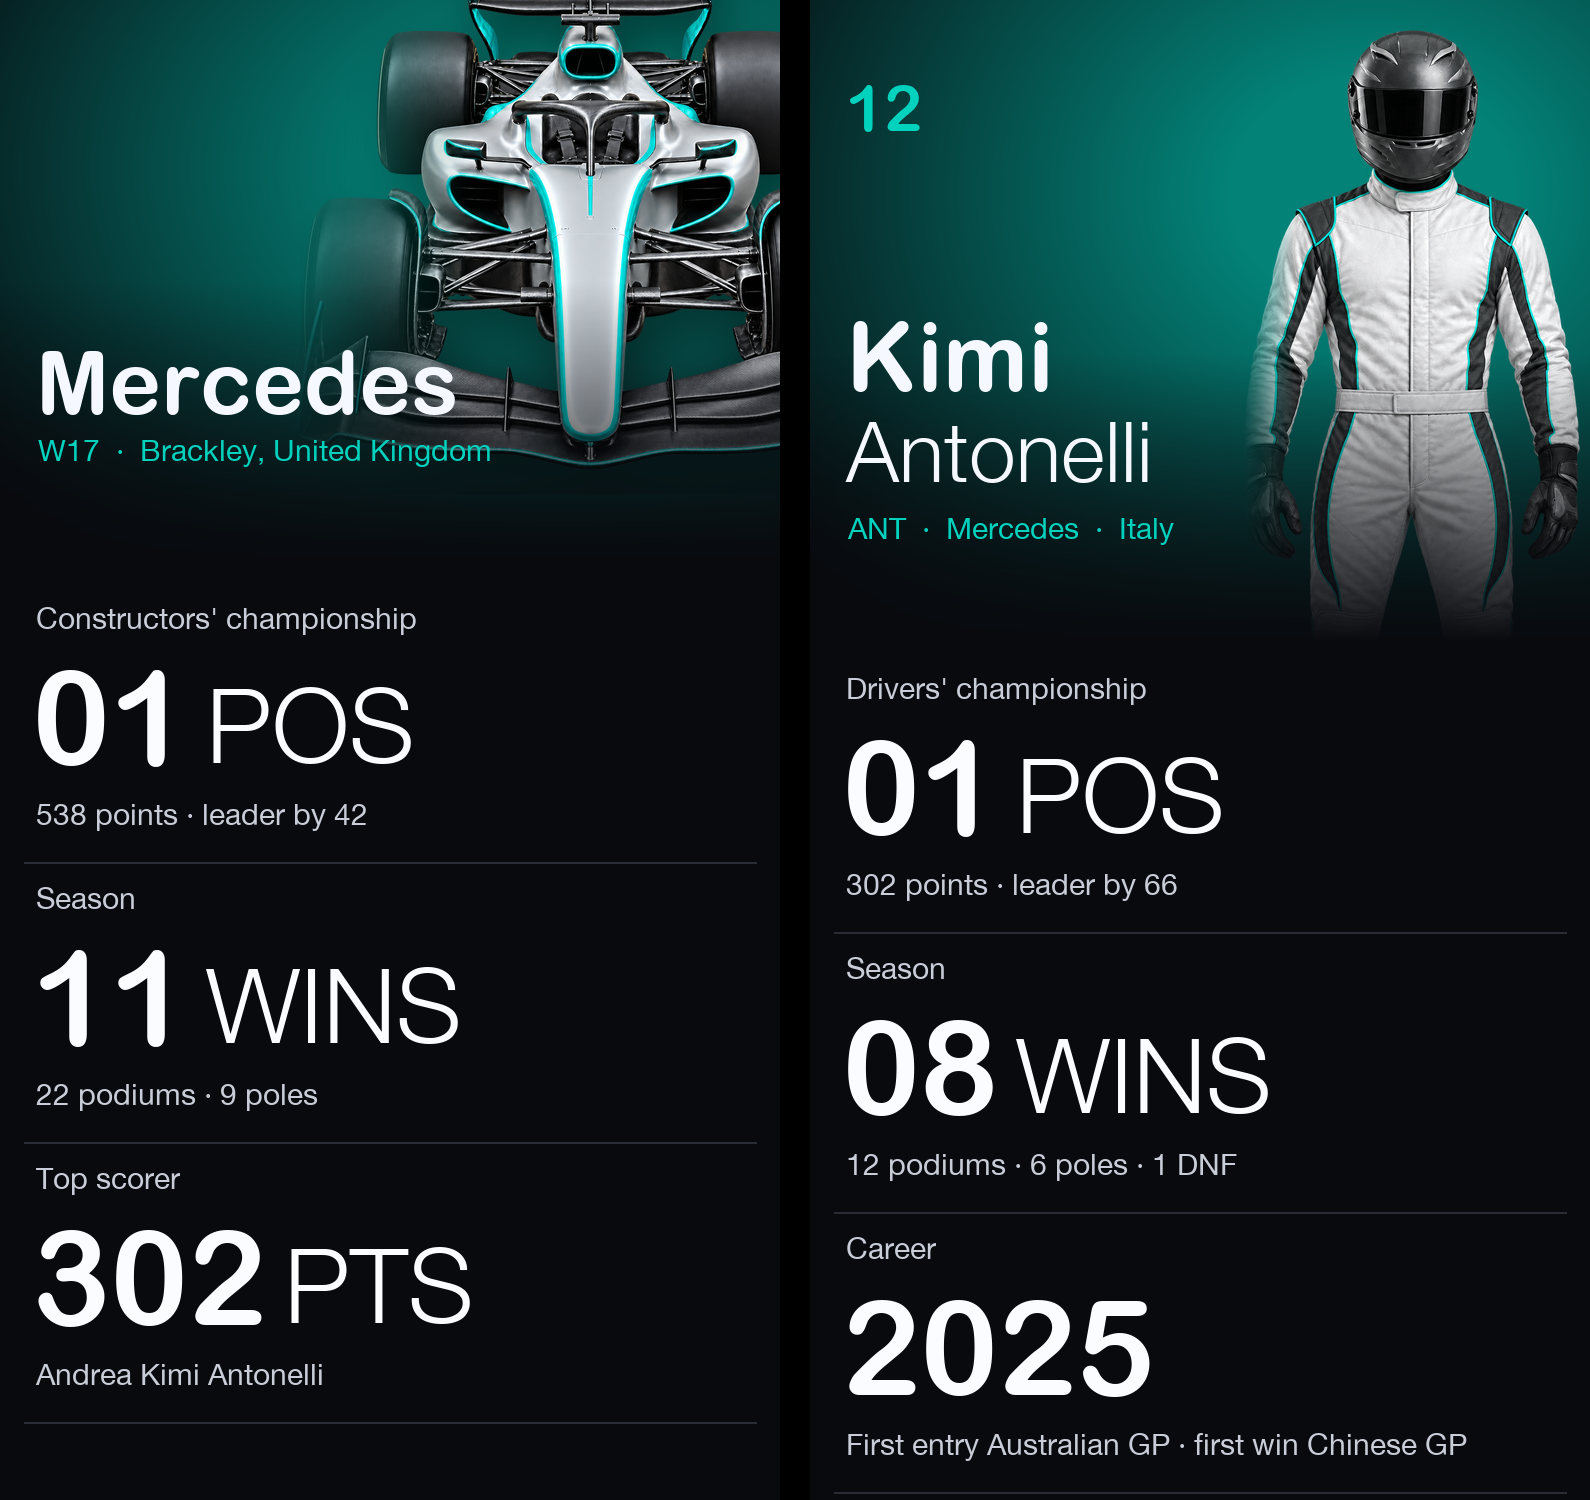
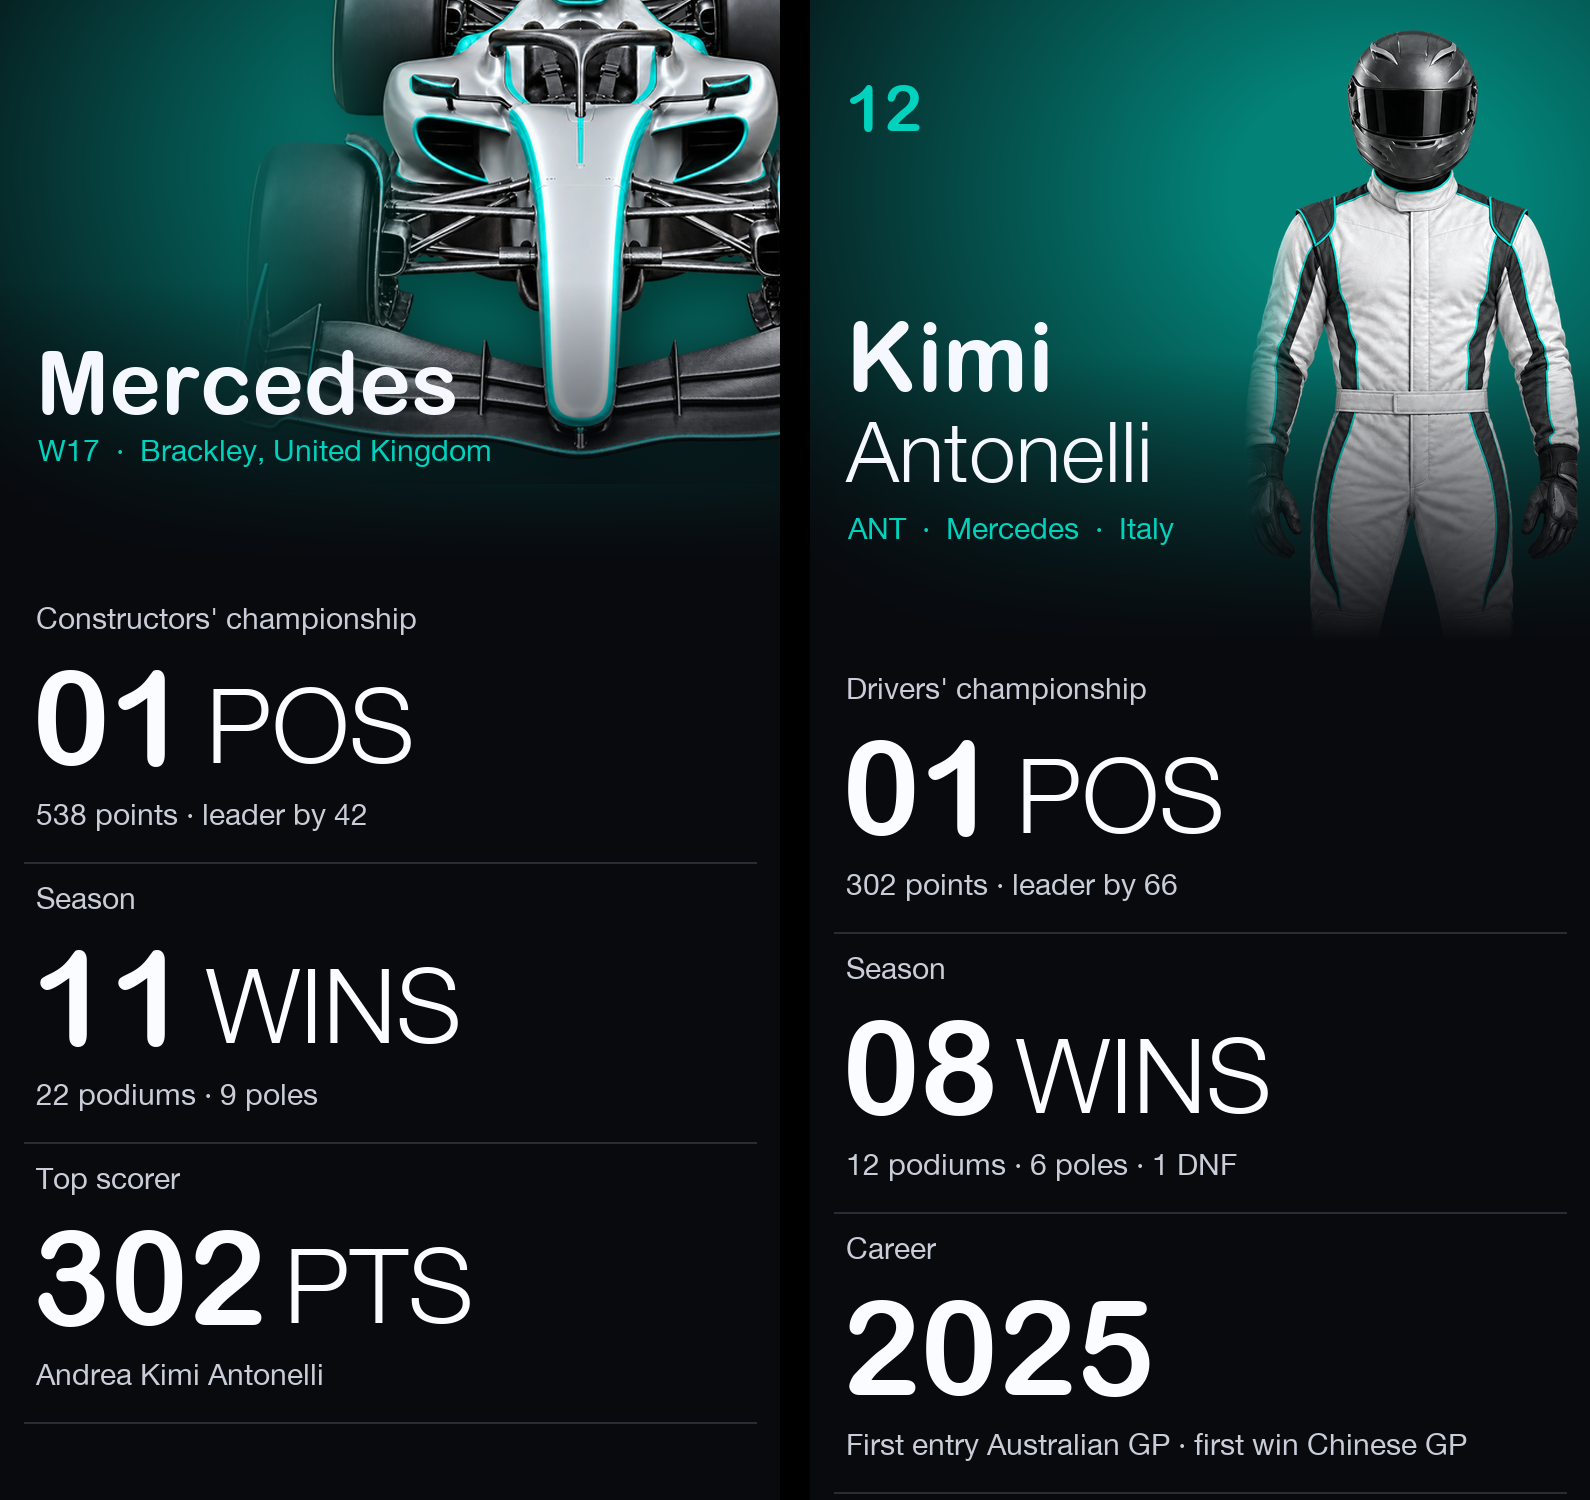
Team sheet mock: bigger car, more of the rear hidden

Changed region(s): [[0.1541, 0.0, 0.4931, 0.3067]]

diff --git a/scripts/design/mock_profile_sheets.py b/scripts/design/mock_profile_sheets.py
@@ -30,8 +30,8 @@ def team(out):
     car = trim(Image.open('Marketing/raw/art/Silver graphite open-wheel with turquoise accents.png').convert('RGBA'))
     car = car.resize((600, int(car.height*600/car.width)), Image.LANCZOS)
     # straight down from the top, on the right like the driver: the front half enters the sheet
-    car = car.resize((600, int(car.height*600/car.width)), Image.LANCZOS)
-    x0, y0 = W - car.width + 110, -car.height + 470
+    car = car.resize((700, int(car.height*700/car.width)), Image.LANCZOS)
+    x0, y0 = W - car.width + 150, -car.height + 460
     car = fade_left(car, 0.3)
     sh = Image.new('RGBA', car.size, (0,0,0,0)); sh.putalpha(car.getchannel('A').point(lambda a: int(a*0.5)))
     hdr.alpha_composite(sh.filter(ImageFilter.GaussianBlur(22)), (x0+10, y0+24))
